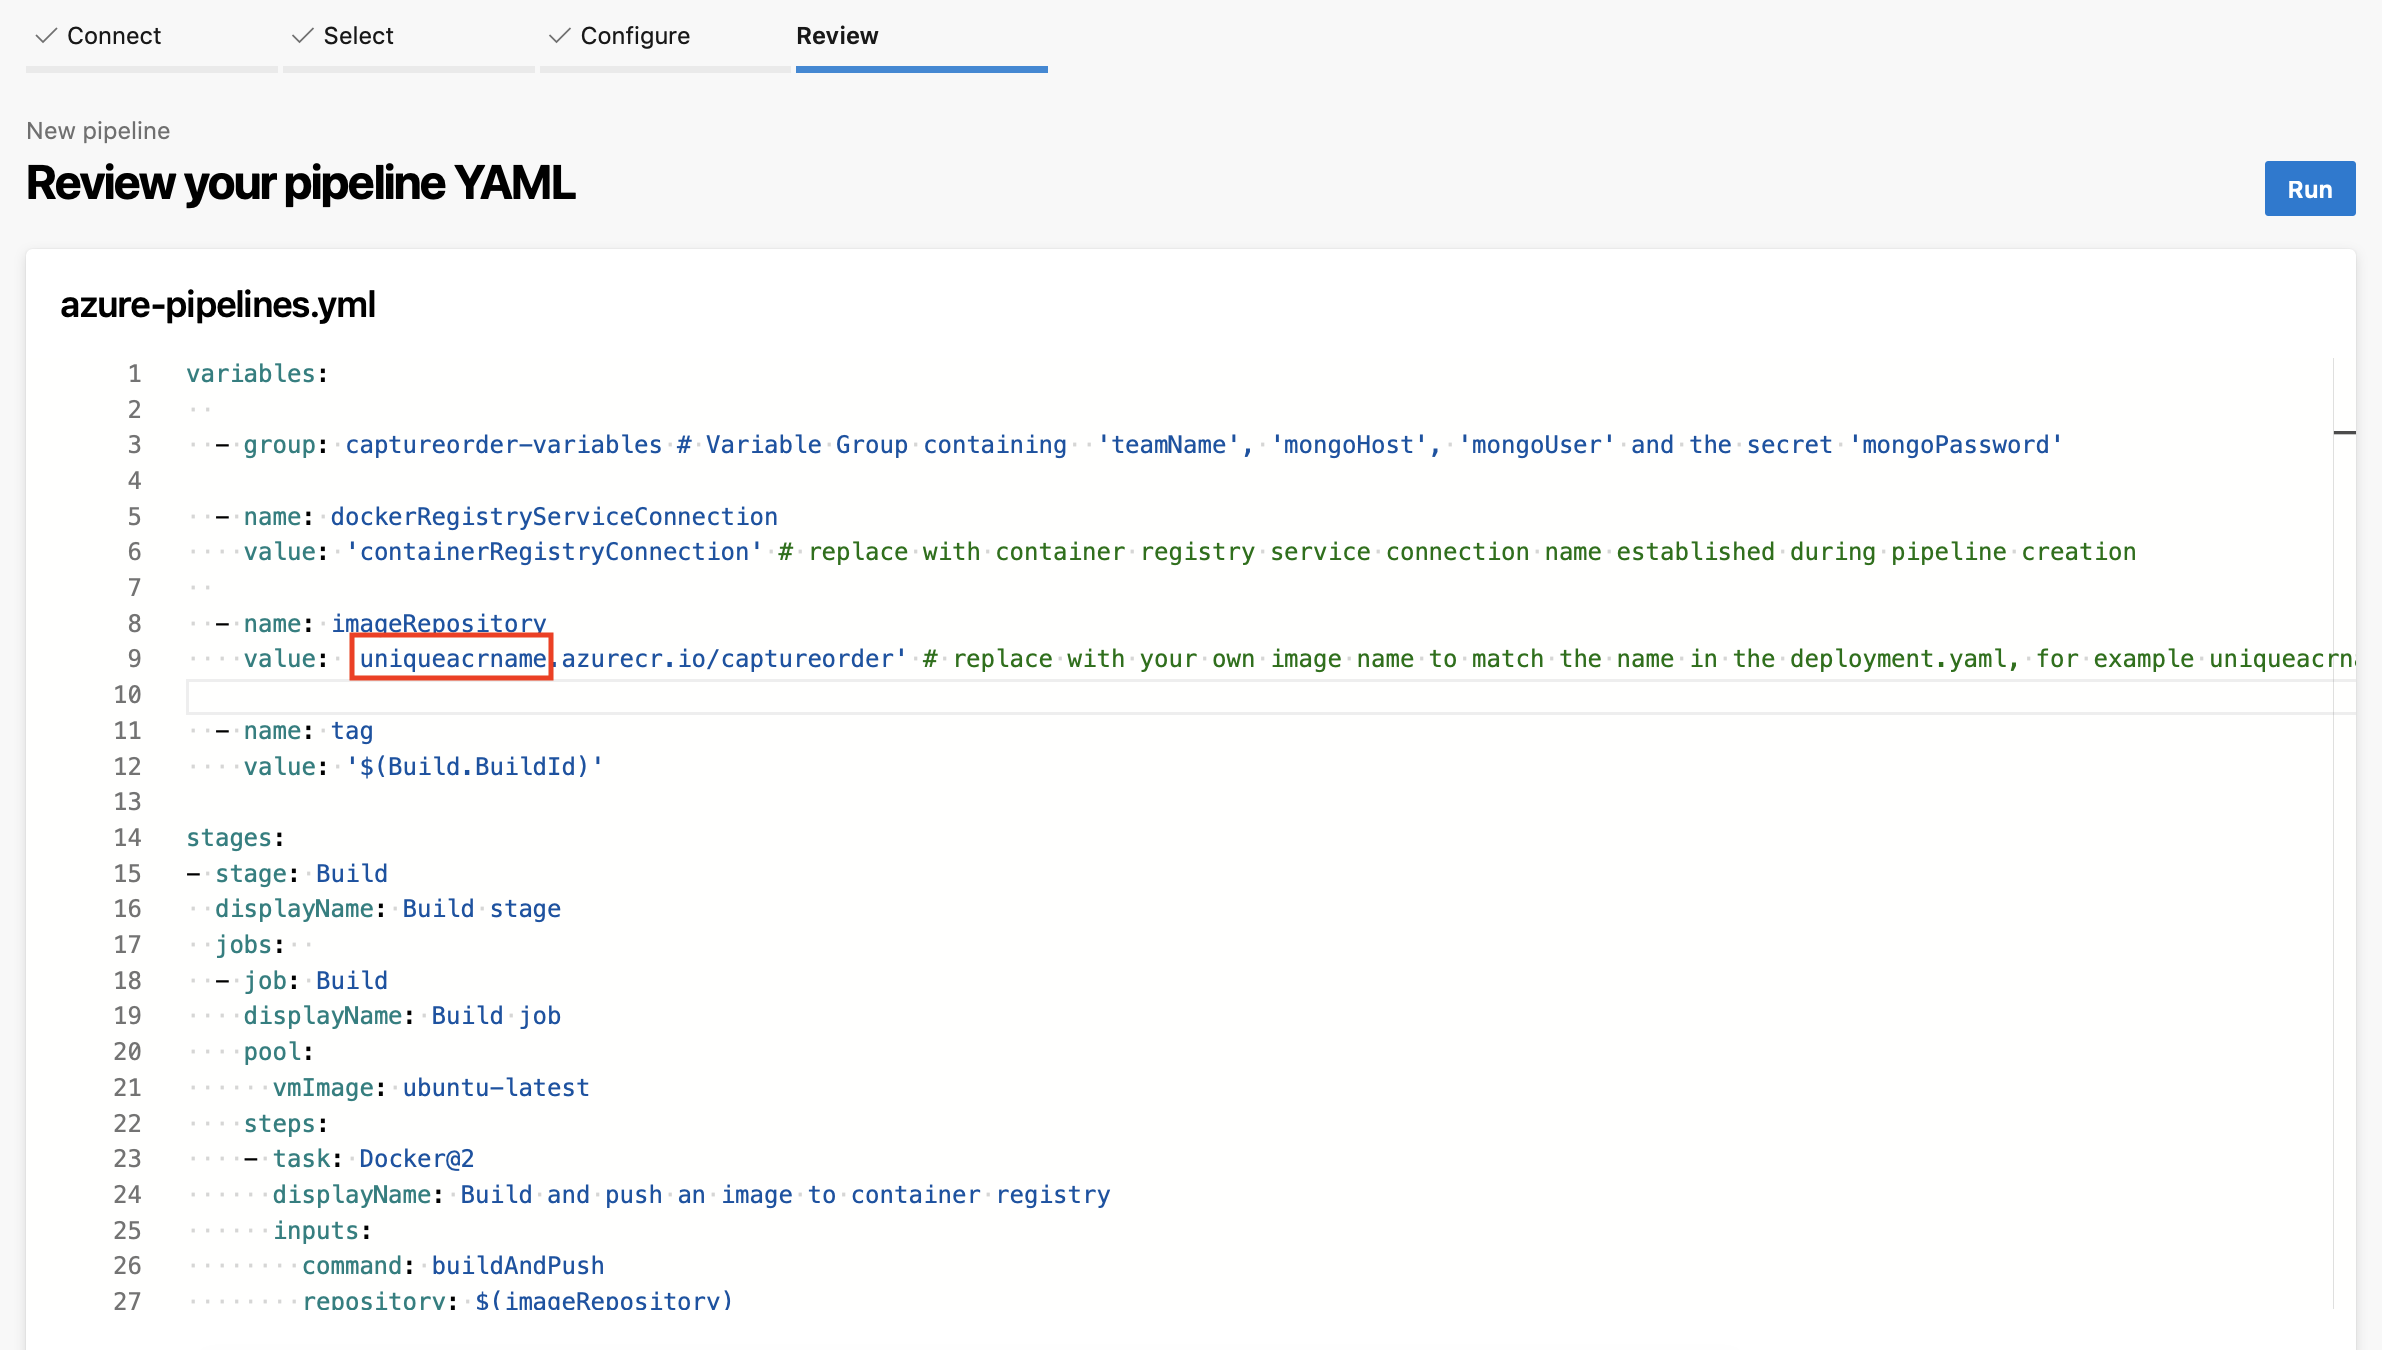
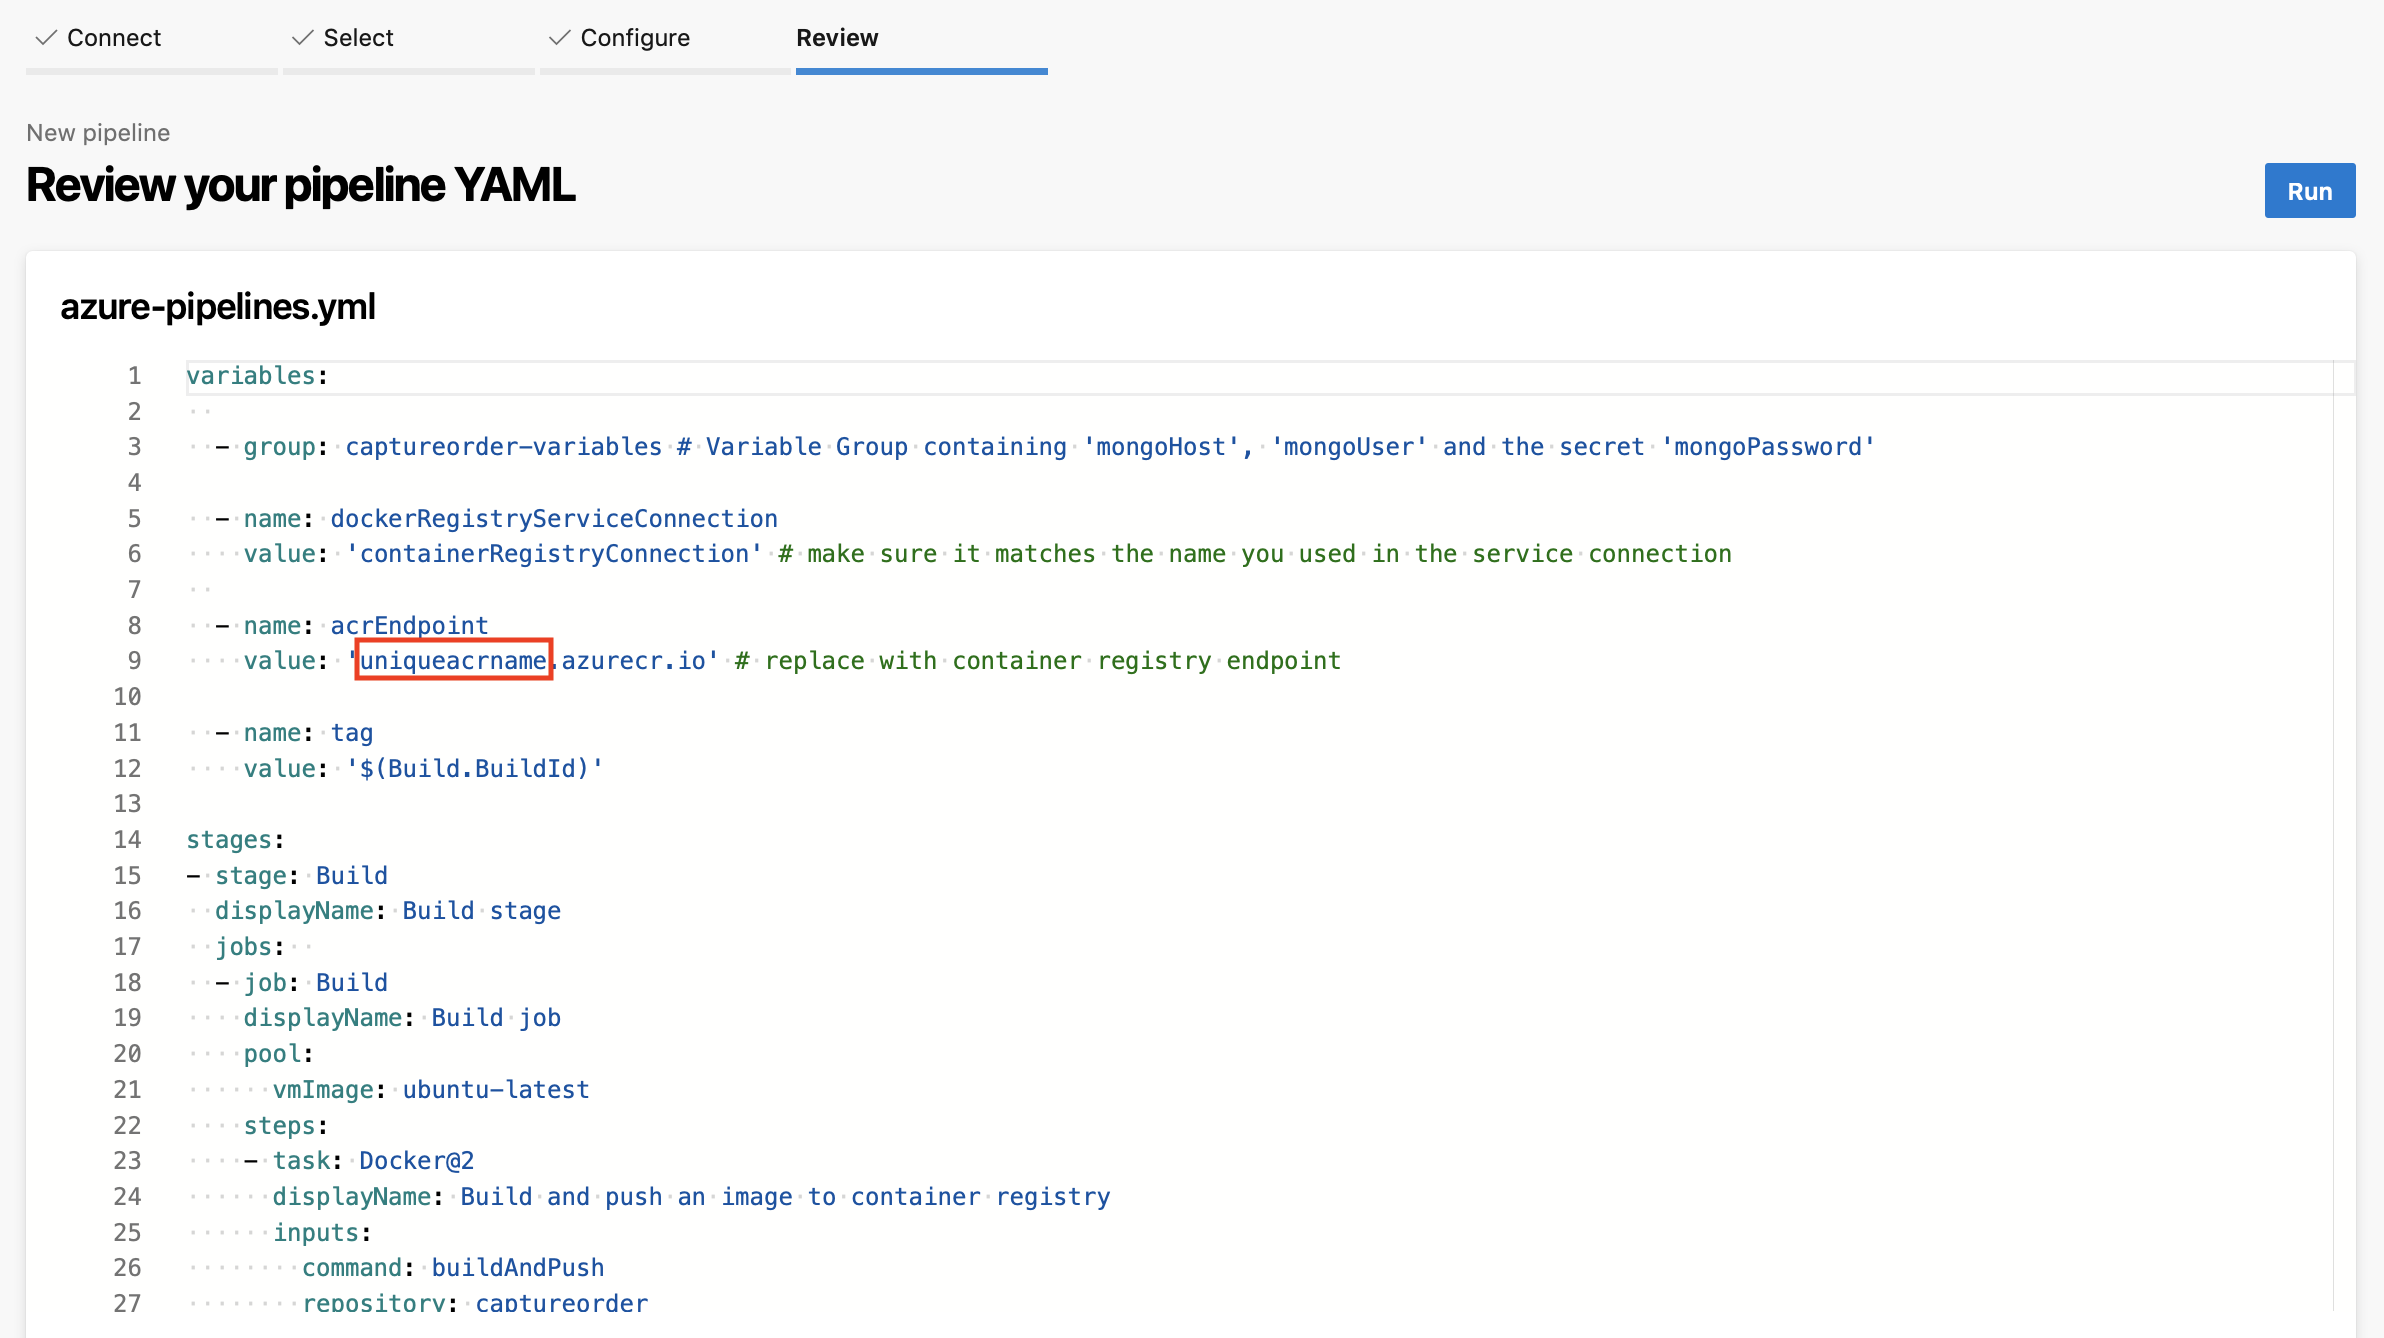
Updated CICD

diff --git a/_entries/03-01 cicd.md b/_entries/03-01 cicd.md
@@ -9,21 +9,9 @@ Your development team are making an increasing number of modifications to your a
 
 You are required to create a robust DevOps pipeline supporting CI/CD to deploy code changes.
 
-> **Hint** The source code repositories on GitHub contain an [`azure-pipelines.yml`](https://github.com/Azure/azch-captureorder/blob/master/azure-pipelines.yml) definition that you can use with Azure Pipelines to build and deploy the containers. 
+> **Hint** The source code repositories on GitHub contain an [`azure-pipelines.yml`](https://github.com/Azure/azch-captureorder/blob/master/azure-pipelines.yml) definition that you can use with Azure Pipelines to build and deploy the containers.
 
 ### Tasks
-
-#### Create an Azure DevOps account
-
-{% collapsible %}
-
-Go to <https://dev.azure.com> and sign-in with your Azure subscription credentials.
-
-If this is your first time to provision an Azure DevOps account, you'll be taken through a quick wizard to create a new organization.
-
-![Getting started with Azure DevOps](media/cicd/getstarted-devops.png)
-
-{% endcollapsible %}
 
 #### Fork the captureorder project on GitHub
 
@@ -45,6 +33,18 @@ After you fork the project, make sure to update `manifests/deployment.yaml` to p
 
 {% endcollapsible %}
 
+#### Create an Azure DevOps account
+
+{% collapsible %}
+
+Go to <https://dev.azure.com> and sign-in with your Azure subscription credentials.
+
+If this is your first time to provision an Azure DevOps account, you'll be taken through a quick wizard to create a new organization.
+
+![Getting started with Azure DevOps](media/cicd/getstarted-devops.png)
+
+{% endcollapsible %}
+
 #### Create a project on Azure DevOps
 
 {% collapsible %}
@@ -54,7 +54,6 @@ Create a new private project, call it **captureorder**
 ![Create Azure DevOps project](media/cicd2/03-create_project.png)
 
 {% endcollapsible %}
-
 
 #### Enable the new multistage pipeline and new service connection (Preview)
 
@@ -90,12 +89,6 @@ Add a Docker Registry service connection. Select **Azure Container Registry** an
 
 ![Create a service connection](media/cicd2/04.3-create_acr_connection.png)
 
-<!-->
-Due to a [current bug](https://developercommunity.visualstudio.com/content/problem/582809/when-creating-a-docker-registry-service-connection.html), make sure to go to "Policies" and make sure to "allow all pipelines to use this service connection" even if it was checked when you created the connection.
-
-![Allow all pipelines to use this service connection](media/cicd2/04.4-authorize_service_connection.png)
--->
-
 {% endcollapsible %}
 
 #### Create a variable group to hold configuration
@@ -122,7 +115,9 @@ Save and proceed.
 
 #### Create an Environment
 
-[Environments](https://docs.microsoft.com/en-us/azure/devops/pipelines/process/environments?view=azure-devops) are a new concept in Azure DevOps Pipelines. An environment represents a collection of resources such as namespaces within Kubernetes clusters, Azure Web Apps, virtual machines, databases, which can be targeted by deployments from a pipeline. Typical examples of environments include Dev, Test, QA, Staging and Production. Currently, only Kubernetes resource type is supported, with the roadmap of environments including support for other resources such as virtual machines, databases and more.
+[Environments](https://docs.microsoft.com/en-us/azure/devops/pipelines/process/environments?view=azure-devops) are a new concept in Azure DevOps Pipelines. An environment represents a collection of resources such as namespaces within Kubernetes clusters, Azure Web Apps, virtual machines, databases, which can be targeted by deployments from a pipeline. Typical examples of environments include Dev, Test, QA, Staging and Production.
+
+Currently, only Kubernetes resource type is supported, with the roadmap of environments including support for other resources such as virtual machines, databases and more.
 
 {% collapsible %}
 
@@ -164,8 +159,6 @@ The source code repository already contains a multi-stage pipeline, which is pic
 
 ![Review pipeline](media/cicd2/10-review_pipeline.png)
 
-> **Important** Make sure to change the value of the `imageRepository` variable from `uniqueacrname.azurecr.io/captureorder` to your Azure Container Registry details, for example `acr73505.azurecr.io/captureorder`.
-
 The pipeline is broken into two main [stages](https://docs.microsoft.com/en-us/azure/devops/pipelines/process/stages?view=azure-devops&tabs=yaml):
 
 1. Build
@@ -179,22 +172,24 @@ There are a couple of variables that are referenced in the pipeline.
 
 - `captureorder-variables` is the name of the [variable group you created earlier](#create-a-variable-group-to-hold-configuration).
 - `dockerRegistryServiceConnection` refers to the [Service Connection you created earlier to Azure Container Registry](#create-docker-service-connection).
-- `imageRepository` refers to where the image is deployed, for example `acr73505.azurecr.io/captureorder`. You need to change this to your environment details.
-- `tag` refers to the autogenerated build ID. This is used to tag the container images built and deployed.
+- `acrEndpoint` refers to where the image is deployed, for example `acr73505.azurecr.io`. You need to change this to your environment details.
+- `tag` refers to the auto-generated build ID. This is used to tag the container images built and deployed.
 
 ```yaml
 variables:
   - group: captureorder-variables # Variable Group containing 'mongoHost', 'mongoUser' and the secret 'mongoPassword'
-  - 
+
   - name: dockerRegistryServiceConnection
-    value: 'containerRegistryConnection' # replace with container registry service connection name established during pipeline creation
+    value: 'containerRegistryConnection' # make sure it matches the name you used in the service connection
   
-  - name: imageRepository
-    value: 'acr73505.azurecr.io/captureorder' # replace with your own image name to match the name in the deployment.yaml, for example uniqueacrname.azurecr.io/captureorder
+  - name: acrEndpoint
+    value: 'uniqueacrname.azurecr.io' # replace with container registry endpoint
 
   - name: tag
-    value: '$(Build.BuildId)'
+    value: '$(Build.BuildId)' # computed at build time
 ```
+
+> **Important** Make sure to change the value of the `acrEndpoint` variable from `uniqueacrname.azurecr.io` to your Azure Container Registry details, for example `acr73505.azurecr.io`.
 
 ##### Inspect the Build stage
 
@@ -208,8 +203,7 @@ The **Build** stage does two things, it uses the [Docker task](https://docs.micr
     repository: $(imageRepository)
     dockerfile: '**/Dockerfile'
     containerRegistry: $(dockerRegistryServiceConnection)
-    tags: |
-      $(tag)
+    tags: $(tag)
 ```
 
 It then publishes the [`manifests`](https://github.com/Azure/azch-captureorder/tree/master/manifests) folder, containing the Kubernetes YAML definitions as a pipeline artifact. This is used later in the deployment stage to deploy to Kubernetes.
@@ -236,19 +230,7 @@ The **Deploy** stage does multiple things. First, it downloads the pipeline arti
     downloadPath: '$(System.ArtifactsDirectory)/manifests'
 ```
 
-Then, using the [Kubernetes manifest task](https://docs.microsoft.com/en-us/azure/devops/pipelines/tasks/deploy/kubernetes-manifest?view=azure-devops) `createSecret` action, it creates a Kubernetes secret called `acr-auth` containing the Azure Container Registry Docker configuration. It pulls this configuration from the Docker service connection you created earlier.
-
-```yaml
-- task: KubernetesManifest@0
-  displayName: Create imagePullSecret from dockerRegistryServiceConnection
-  inputs:
-    action: createSecret
-    secretName: acr-auth # we're going to inject this as an imagePullSecret in the deployment below
-    namespace: $(k8sNamespace)
-    dockerRegistryEndpoint: $(dockerRegistryServiceConnection)
-```
-
-Then, using the same task and the `createSecret` action, it creates a Kubernetes secret holding the MongoDB host, username and password. Note that the `secretArguments` follows the same syntax as when [creating a secret using `kubectl`](https://kubernetes.io/docs/tasks/inject-data-application/distribute-credentials-secure/#define-a-container-environment-variable-with-data-from-a-single-secret). The values are coming from the variable group you created before.
+Then, using the [Kubernetes manifest task](https://docs.microsoft.com/en-us/azure/devops/pipelines/tasks/deploy/kubernetes-manifest?view=azure-devops) `createSecret` action, it creates a Kubernetes secret holding the MongoDB host, username and password. Note that the `secretArguments` follows the same syntax as when [creating a secret using `kubectl`](https://kubernetes.io/docs/tasks/inject-data-application/distribute-credentials-secure/#define-a-container-environment-variable-with-data-from-a-single-secret). The values are coming from the variable group you created before.
 
 ```yaml
 - task: KubernetesManifest@0
@@ -263,7 +245,7 @@ Then, using the same task and the `createSecret` action, it creates a Kubernetes
 
 The next task then deploys all the YAML files in the `manifests` folder. It automatically overrides the image name you defined in the `deployment.yaml` file to append the current build ID as a tag to the image.
 
-> **Note** For this to work, you should make sure to change the value of the `imageRepository` in the pipeline to match your `deployment.yaml` file. For example: `uniqueacrname.azurecr.io/captureorder`.
+> **Note** For this to work, you should make sure to change the value of the `acrEndpoint` in the pipeline to match your `deployment.yaml` file. For example: `uniqueacrname.azurecr.io`.
 
 ```yaml
 - task: KubernetesManifest@0
@@ -272,8 +254,7 @@ The next task then deploys all the YAML files in the `manifests` folder. It auto
     action: deploy
     namespace: $(k8sNamespace)
     manifests: $(System.ArtifactsDirectory)/manifests/*
-    containers: |
-      $(imageRepository):$(tag)
+    containers: '$(acrEndpoint)/captureorder:$(tag)'
 ```
 
 {% endcollapsible %}
@@ -296,7 +277,6 @@ The deploy stage will create the secrets and deploy the manifests to the `dev` n
 
 > **Troubleshooting:** If your deployment times out, you can inspect what's going on by doing a `kubectl get pods --namespace dev` and `kubectl get events --namespace dev`. If you get an `ImagePullBackOff`, this probably means you missed updating the repository with your own Azure Container Registry in `manifests/deployment.yaml`. Make sure to update this in your code fork.
 > ![Update deployment repository](media/cicd2/update-acr-deployment.png)
-
 
 {% endcollapsible %}
 
